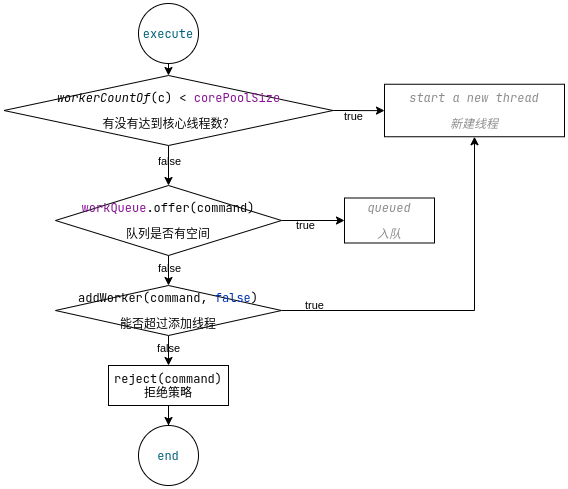
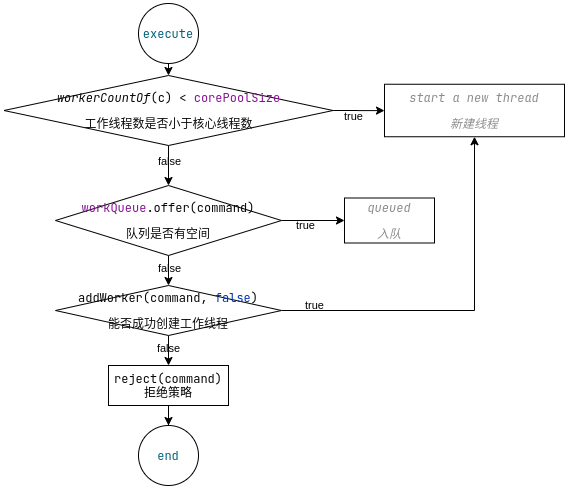
Site updated: 2020-08-23 21:08:49

Changed region(s): [[0.1496, 0.2147, 0.4489, 0.2761], [0.1796, 0.6442, 0.419, 0.6748]]

diff --git a/index.html b/index.html
@@ -246,7 +246,7 @@
       <header class="post-header">
         <h2 class="post-title" itemprop="name headline">
           
-            <a href="/2020/08/22/Java-%E7%BA%BF%E7%A8%8B%E6%B1%A0/" class="post-title-link" itemprop="url">Java-先城池</a>
+            <a href="/2020/08/22/Java-%E7%BA%BF%E7%A8%8B%E6%B1%A0/" class="post-title-link" itemprop="url">Java-线程池</a>
         </h2>
 
         <div class="post-meta">
@@ -322,160 +322,14 @@
 <li>scheduleWithFixedDelay：给定延迟后开始执行，每次任务执行完成后，经过执行周期时间，再执行下次任务。</li>
 </ul>
 </blockquote>
-<h1 id="代码"><a class="markdownIt-Anchor" href="#代码"></a> 代码</h1>
-<h2 id="公共测试代码"><a class="markdownIt-Anchor" href="#公共测试代码"></a> 公共测试代码</h2>
-<figure class="highlight java"><table><tr><td class="gutter"><pre><span class="line">1</span><br><span class="line">2</span><br><span class="line">3</span><br><span class="line">4</span><br><span class="line">5</span><br><span class="line">6</span><br><span class="line">7</span><br><span class="line">8</span><br><span class="line">9</span><br><span class="line">10</span><br><span class="line">11</span><br><span class="line">12</span><br><span class="line">13</span><br><span class="line">14</span><br><span class="line">15</span><br><span class="line">16</span><br><span class="line">17</span><br><span class="line">18</span><br><span class="line">19</span><br><span class="line">20</span><br><span class="line">21</span><br></pre></td><td class="code"><pre><span class="line"><span class="function"><span class="keyword">public</span> <span class="keyword">void</span> <span class="title">commonTestCase</span><span class="params">(ThreadPoolExecutor threadPoolExecutor)</span> <span class="keyword">throws</span> InterruptedException </span>&#123;</span><br><span class="line">    <span class="keyword">for</span> (<span class="keyword">int</span> i = <span class="number">0</span>; i &lt; <span class="number">8</span>; i++) &#123;</span><br><span class="line">        <span class="keyword">final</span> <span class="keyword">int</span> n = i;</span><br><span class="line">        threadPoolExecutor.submit(() -&gt; &#123;</span><br><span class="line">            <span class="keyword">try</span> &#123;</span><br><span class="line">                <span class="comment">// 模拟任务，时长2秒钟</span></span><br><span class="line">                Thread.sleep(<span class="number">2000L</span>);</span><br><span class="line">            &#125; <span class="keyword">catch</span> (InterruptedException e) &#123;</span><br><span class="line">                e.printStackTrace();</span><br><span class="line">            &#125;</span><br><span class="line">        &#125;);</span><br><span class="line">    &#125;</span><br><span class="line">    <span class="comment">// 在任务执行过程中，查看线程池状态</span></span><br><span class="line">    Thread.sleep(<span class="number">100L</span>);</span><br><span class="line">    System.out.println(<span class="string">"执行中线程池线程数量："</span> + threadPoolExecutor.getPoolSize());</span><br><span class="line">    System.out.println(<span class="string">"执行中等待队列任务数："</span> + threadPoolExecutor.getQueue().size());</span><br><span class="line">    <span class="comment">// 任务执行完之后，查看线程池状态</span></span><br><span class="line">    Thread.sleep(<span class="number">10000L</span>);</span><br><span class="line">    System.out.println(<span class="string">"执行完线程池线程数量："</span> + threadPoolExecutor.getPoolSize());</span><br><span class="line">    System.out.println(<span class="string">"执行完等待队列任务数："</span> + threadPoolExecutor.getQueue().size());</span><br><span class="line">&#125;</span><br></pre></td></tr></table></figure>
-<h2 id="一般场景"><a class="markdownIt-Anchor" href="#一般场景"></a> 一般场景</h2>
-<ul>
-<li>代码<figure class="highlight java"><table><tr><td class="gutter"><pre><span class="line">1</span><br><span class="line">2</span><br><span class="line">3</span><br><span class="line">4</span><br><span class="line">5</span><br><span class="line">6</span><br><span class="line">7</span><br><span class="line">8</span><br><span class="line">9</span><br><span class="line">10</span><br><span class="line">11</span><br><span class="line">12</span><br></pre></td><td class="code"><pre><span class="line"><span class="comment">/**</span></span><br><span class="line"><span class="comment"> * 线程池：</span></span><br><span class="line"><span class="comment"> *   核心线程数量为 3个，最多线程数量为 5个；</span></span><br><span class="line"><span class="comment"> *   超过核心数量的线程的存活时间为 5秒；</span></span><br><span class="line"><span class="comment"> *   线程等待队列为无界队列</span></span><br><span class="line"><span class="comment"> */</span></span><br><span class="line"><span class="function"><span class="keyword">public</span> <span class="keyword">void</span> <span class="title">normalThreadPool</span><span class="params">()</span> <span class="keyword">throws</span> InterruptedException </span>&#123;</span><br><span class="line">    ThreadPoolExecutor threadPoolExecutor = <span class="keyword">new</span> ThreadPoolExecutor(<span class="number">3</span>, <span class="number">5</span>,</span><br><span class="line">            <span class="number">5</span>, TimeUnit.SECONDS,</span><br><span class="line">            <span class="keyword">new</span> LinkedBlockingQueue&lt;&gt;());</span><br><span class="line">    commonTestCase(threadPoolExecutor);</span><br><span class="line">&#125;</span><br></pre></td></tr></table></figure>
-</li>
-<li>执行结果
-<blockquote>
-<p>执行中线程池线程数量：3<br />
-执行中等待队列任务数：5<br />
-执行完线程池线程数量：3<br />
-执行完等待队列任务数：0</p>
-</blockquote>
-</li>
-<li>解释
-<ol>
-<li>为什么在执行过程中，线程数量没有增加到最大数量，而是选择将超出核心线程数的任务放到任务队列里？
-<blockquote>
-<p>线程池创建新线程的规则：</p>
-<ol>
-<li>如果正在运行的线程数小于<code>corePoolSize</code>时，即使其他工作线程处于空闲状态，也会创建一个新线程来处理请求；</li>
-<li>如果运行的线程数大于<code>corePoolSize</code>但小于<code>maximumPoolSize</code>时，则仅在队列已满时才创建新线程；</li>
-<li>答案：由于创建线程池时指定的线程池为无界队列，所以永远不会创建新线程，而是一直复用3个核心线程来处理任务。</li>
-</ol>
-</blockquote>
-</li>
-</ol>
-</li>
-</ul>
-<h2 id="一般场景拒绝策略"><a class="markdownIt-Anchor" href="#一般场景拒绝策略"></a> 一般场景+拒绝策略</h2>
-<ul>
-<li>代码<figure class="highlight java"><table><tr><td class="gutter"><pre><span class="line">1</span><br><span class="line">2</span><br><span class="line">3</span><br><span class="line">4</span><br><span class="line">5</span><br><span class="line">6</span><br><span class="line">7</span><br><span class="line">8</span><br><span class="line">9</span><br><span class="line">10</span><br><span class="line">11</span><br><span class="line">12</span><br><span class="line">13</span><br><span class="line">14</span><br><span class="line">15</span><br><span class="line">16</span><br><span class="line">17</span><br></pre></td><td class="code"><pre><span class="line"><span class="comment">/**</span></span><br><span class="line"><span class="comment"> * 线程池：</span></span><br><span class="line"><span class="comment"> *   核心线程数量为 3个，最多线程数量为 5个；</span></span><br><span class="line"><span class="comment"> *   超过核心数量的线程的存活时间为 5秒；</span></span><br><span class="line"><span class="comment"> *   线程等待队列为容量大小为 3的队列</span></span><br><span class="line"><span class="comment"> *   指定拒绝策略</span></span><br><span class="line"><span class="comment"> */</span></span><br><span class="line"><span class="function"><span class="keyword">public</span> <span class="keyword">void</span> <span class="title">normalThreadPoolRejectHandler</span><span class="params">()</span> <span class="keyword">throws</span> InterruptedException </span>&#123;</span><br><span class="line">    ThreadPoolExecutor threadPoolExecutor = <span class="keyword">new</span> ThreadPoolExecutor(<span class="number">3</span>, <span class="number">5</span>, <span class="number">5</span>, TimeUnit.SECONDS, <span class="keyword">new</span> LinkedBlockingQueue&lt;&gt;(<span class="number">2</span>),</span><br><span class="line">            <span class="keyword">new</span> RejectedExecutionHandler() &#123;</span><br><span class="line">                <span class="meta">@Override</span></span><br><span class="line">                <span class="function"><span class="keyword">public</span> <span class="keyword">void</span> <span class="title">rejectedExecution</span><span class="params">(Runnable r, ThreadPoolExecutor executor)</span> </span>&#123;</span><br><span class="line">                    System.out.println(<span class="string">"拒绝任务"</span>);</span><br><span class="line">                &#125;</span><br><span class="line">            &#125;);</span><br><span class="line">    commonTestCase(threadPoolExecutor);</span><br><span class="line">&#125;</span><br></pre></td></tr></table></figure>
-</li>
-<li>执行结果
-<blockquote>
-<p>拒绝任务<br />
-执行中线程池线程数量：5<br />
-执行中等待队列任务数：2<br />
-执行完线程池线程数量：3<br />
-执行完等待队列任务数：0</p>
-</blockquote>
-</li>
-<li>解释
-<ol>
-<li>前三个任务被核心线程执行时，4、5个任务被加到任务队列中，此时队列已满；后来的6、7个任务新建线程执行，此时线程池和队列都已经满了；第8个任务被拒绝添加，执行决绝策略。</li>
-<li>当8个任务已经处理完成，存货时间为5秒的2个非核心线程销毁，此时线程池线程数为3，队列任务数为0。</li>
-<li>执行任务流程(具体描述见<code>ThreadPoolExecutor#execute</code>注释)： <img src="/2020/08/22/Java-%E7%BA%BF%E7%A8%8B%E6%B1%A0/execute.png" class="" title="任务执行流程">
-</li>
-</ol>
-</li>
-</ul>
-<h3 id="通过executors创建固定大小线程池newfixedthreadpool"><a class="markdownIt-Anchor" href="#通过executors创建固定大小线程池newfixedthreadpool"></a> 通过Executors创建固定大小线程池:newFixedThreadPool</h3>
-<ul>
-<li>代码<figure class="highlight java"><table><tr><td class="gutter"><pre><span class="line">1</span><br><span class="line">2</span><br><span class="line">3</span><br><span class="line">4</span><br><span class="line">5</span><br><span class="line">6</span><br><span class="line">7</span><br><span class="line">8</span><br><span class="line">9</span><br></pre></td><td class="code"><pre><span class="line"><span class="comment">/**</span></span><br><span class="line"><span class="comment"> * 等价与：</span></span><br><span class="line"><span class="comment"> *    new ThreadPoolExecutor(5, 5, 0L, TimeUnit.MILLISECONDS, new LinkedBlockingQueue&lt;Runnable&gt;());</span></span><br><span class="line"><span class="comment"> * 无界队列，核心线程数和最大线程数相等(固定为5个)</span></span><br><span class="line"><span class="comment"> */</span></span><br><span class="line"><span class="function"><span class="keyword">public</span> <span class="keyword">void</span> <span class="title">executorsNewFixed</span><span class="params">()</span> <span class="keyword">throws</span> InterruptedException </span>&#123;</span><br><span class="line">    ThreadPoolExecutor threadPoolExecutor = (ThreadPoolExecutor) Executors.newFixedThreadPool(<span class="number">5</span>);</span><br><span class="line">    commonTestCase(threadPoolExecutor);</span><br><span class="line">&#125;</span><br></pre></td></tr></table></figure>
-</li>
-<li>执行结果
-<blockquote>
-<p>执行中线程池线程数量：5<br />
-执行中等待队列任务数：3<br />
-执行完线程池线程数量：5<br />
-执行完等待队列任务数：0</p>
-</blockquote>
-</li>
-<li>解释<br />
-等价于<a href="#%E4%B8%80%E8%88%AC%E5%9C%BA%E6%99%AF">第一种场景</a>，唯一的区别是：该实现核心线程数等于最大线程数，不会有临时线程创建所以存活时间参数就用不到了；<br />
-执行过程：前五个任务会直接用空闲线程执行，其他任务放到队列中等待其他任务执行完成。</li>
-</ul>
-<h3 id="通过executors创建缓存线程池newcachedthreadpool"><a class="markdownIt-Anchor" href="#通过executors创建缓存线程池newcachedthreadpool"></a> 通过Executors创建缓存线程池:newCachedThreadPool</h3>
-<ul>
-<li>代码<br />
-首先，在公共测试模块中临时添加段代码：<figure class="highlight java"><table><tr><td class="gutter"><pre><span class="line">1</span><br><span class="line">2</span><br><span class="line">3</span><br><span class="line">4</span><br></pre></td><td class="code"><pre><span class="line"><span class="comment">// 等待缓存线程存活时间</span></span><br><span class="line">Thread.sleep(<span class="number">60000L</span>);</span><br><span class="line">System.out.println(<span class="string">"超过缓存时间线程池线程数量："</span> + threadPoolExecutor.getPoolSize());</span><br><span class="line">System.out.println(<span class="string">"超过缓存时间等待队列任务数："</span> + threadPoolExecutor.getQueue().size());</span><br></pre></td></tr></table></figure>
-<figure class="highlight java"><table><tr><td class="gutter"><pre><span class="line">1</span><br><span class="line">2</span><br><span class="line">3</span><br><span class="line">4</span><br><span class="line">5</span><br><span class="line">6</span><br><span class="line">7</span><br><span class="line">8</span><br><span class="line">9</span><br><span class="line">10</span><br></pre></td><td class="code"><pre><span class="line"><span class="comment">/**</span></span><br><span class="line"><span class="comment"> * 等价于:</span></span><br><span class="line"><span class="comment"> *     new ThreadPoolExecutor(0, Integer.MAX_VALUE, 60L, TimeUnit.SECONDS, new SynchronousQueue&lt;Runnable&gt;());</span></span><br><span class="line"><span class="comment"> * 核心线程数为0,最大线程数为Integer最大值,线程存活时间为60秒</span></span><br><span class="line"><span class="comment"> * SynchronousQueue(同步队列)：在向线程池的任务队列中提交任务时，如果没有空闲线程，则添加失败，此时线程池新建线程，否则复用空闲线程。</span></span><br><span class="line"><span class="comment"> */</span></span><br><span class="line"><span class="function"><span class="keyword">public</span> <span class="keyword">void</span> <span class="title">executorsNewCached</span><span class="params">()</span> <span class="keyword">throws</span> InterruptedException </span>&#123;     </span><br><span class="line">    ThreadPoolExecutor threadPoolExecutor = (ThreadPoolExecutor) Executors.newCachedThreadPool();</span><br><span class="line">    commonTestCase(threadPoolExecutor);</span><br><span class="line">&#125;</span><br></pre></td></tr></table></figure>
-</li>
-<li>执行结果
-<blockquote>
-<p>执行中线程池线程数量：8<br />
-执行中等待队列任务数：0<br />
-执行完线程池线程数量：8<br />
-执行完等待队列任务数：0<br />
-超过缓存时间线程池线程数量：0<br />
-超过缓存时间等待队列任务数：0</p>
-</blockquote>
-</li>
-<li>解释：
-<ol>
-<li>在提交任务时，由于所有的任务都在执行中，对每一个新任务都新建线程；执行结束后，线程有60秒的存活时间，在这期间内没有新的任务提交，之后所有线程销毁。</li>
-</ol>
-</li>
-</ul>
-<h3 id="通过executors创建单线程线程池newsinglethreadexecutor"><a class="markdownIt-Anchor" href="#通过executors创建单线程线程池newsinglethreadexecutor"></a> 通过Executors创建单线程线程池:newSingleThreadExecutor</h3>
-<ul>
-<li>解释
-<ol>
-<li><code>Executors</code>内相关代码：<figure class="highlight java"><table><tr><td class="gutter"><pre><span class="line">1</span><br><span class="line">2</span><br><span class="line">3</span><br><span class="line">4</span><br><span class="line">5</span><br><span class="line">6</span><br></pre></td><td class="code"><pre><span class="line"><span class="function"><span class="keyword">public</span> <span class="keyword">static</span> ExecutorService <span class="title">newSingleThreadExecutor</span><span class="params">()</span> </span>&#123;</span><br><span class="line">    <span class="keyword">return</span> <span class="keyword">new</span> FinalizableDelegatedExecutorService</span><br><span class="line">        (<span class="keyword">new</span> ThreadPoolExecutor(<span class="number">1</span>, <span class="number">1</span>,</span><br><span class="line">                                <span class="number">0L</span>, TimeUnit.MILLISECONDS,</span><br><span class="line">                                <span class="keyword">new</span> LinkedBlockingQueue&lt;Runnable&gt;()));</span><br><span class="line">&#125;</span><br></pre></td></tr></table></figure>
-</li>
-<li>创建一个线程池，该线程池在无界队列上使用单个线程执行任务，保证任务按顺序执行。</li>
-</ol>
-</li>
-</ul>
-<h3 id="通过executors创建定时任务线程池newscheduledthreadpool"><a class="markdownIt-Anchor" href="#通过executors创建定时任务线程池newscheduledthreadpool"></a> 通过Executors创建定时任务线程池:newScheduledThreadPool</h3>
-<p>定时任务线程池有两种用法，一种是单次执行，一种是周期执行，周期执行又有两种方式。</p>
-<h4 id="单次执行"><a class="markdownIt-Anchor" href="#单次执行"></a> 单次执行</h4>
-<ul>
-<li>代码<figure class="highlight java"><table><tr><td class="gutter"><pre><span class="line">1</span><br><span class="line">2</span><br><span class="line">3</span><br><span class="line">4</span><br><span class="line">5</span><br><span class="line">6</span><br><span class="line">7</span><br><span class="line">8</span><br><span class="line">9</span><br><span class="line">10</span><br></pre></td><td class="code"><pre><span class="line"><span class="comment">/**</span></span><br><span class="line"><span class="comment"> * 定义定时任务线程池，1秒后执行任务，进执行一次。DelayedWorkQueue实现。</span></span><br><span class="line"><span class="comment"> */</span></span><br><span class="line"><span class="function"><span class="keyword">public</span> <span class="keyword">void</span> <span class="title">scheduledThreadPoolOnce</span><span class="params">()</span> </span>&#123;</span><br><span class="line">    ScheduledThreadPoolExecutor scheduledThreadPoolExecutor = (ScheduledThreadPoolExecutor) Executors.newScheduledThreadPool(<span class="number">1</span>);</span><br><span class="line">    scheduledThreadPoolExecutor.schedule(() -&gt; &#123;</span><br><span class="line">        System.out.println(<span class="string">"执行定时任务："</span> + System.currentTimeMillis());</span><br><span class="line">    &#125;, <span class="number">1000L</span>, TimeUnit.MILLISECONDS);</span><br><span class="line">    System.out.println(<span class="string">"提交定时任务："</span> + System.currentTimeMillis());</span><br><span class="line">&#125;</span><br></pre></td></tr></table></figure>
-</li>
-<li>执行结果
-<blockquote>
-<p>提交定时任务：1598088184064<br />
-执行定时任务：1598088185065</p>
-</blockquote>
-</li>
-</ul>
-<h4 id="周期执行atfixedrate"><a class="markdownIt-Anchor" href="#周期执行atfixedrate"></a> 周期执行–AtFixedRate</h4>
-<ul>
-<li>代码<figure class="highlight java"><table><tr><td class="gutter"><pre><span class="line">1</span><br><span class="line">2</span><br><span class="line">3</span><br><span class="line">4</span><br><span class="line">5</span><br><span class="line">6</span><br><span class="line">7</span><br><span class="line">8</span><br><span class="line">9</span><br><span class="line">10</span><br><span class="line">11</span><br><span class="line">12</span><br><span class="line">13</span><br><span class="line">14</span><br><span class="line">15</span><br><span class="line">16</span><br><span class="line">17</span><br></pre></td><td class="code"><pre><span class="line"><span class="comment">/**</span></span><br><span class="line"><span class="comment"> * 定义定时任务线程池，1秒后执行任务,每隔三秒执行一次，任务执行时间为5秒。</span></span><br><span class="line"><span class="comment"> * 说明：任务执行时间大于循环周期，则该方式，在前次任务执行完成后立即执行。</span></span><br><span class="line"><span class="comment"> */</span></span><br><span class="line"><span class="function"><span class="keyword">public</span> <span class="keyword">void</span> <span class="title">scheduledThreadPoolAtFixedRate</span><span class="params">()</span> </span>&#123;</span><br><span class="line">    ScheduledThreadPoolExecutor scheduledThreadPoolExecutor = (ScheduledThreadPoolExecutor) Executors.newScheduledThreadPool(<span class="number">1</span>);</span><br><span class="line">    scheduledThreadPoolExecutor.scheduleAtFixedRate(() -&gt; &#123;</span><br><span class="line">        System.out.println(<span class="string">"执行定时任务开始："</span> + System.currentTimeMillis());</span><br><span class="line">            <span class="keyword">try</span> &#123;</span><br><span class="line">                Thread.sleep(<span class="number">5000L</span>);</span><br><span class="line">            &#125; <span class="keyword">catch</span> (InterruptedException e) &#123;</span><br><span class="line">                e.printStackTrace();</span><br><span class="line">            &#125;</span><br><span class="line">            System.out.println(<span class="string">"执行定时任务结束："</span> + System.currentTimeMillis());</span><br><span class="line">        &#125;, <span class="number">1000L</span>, <span class="number">3000L</span>, TimeUnit.MILLISECONDS);</span><br><span class="line">    System.out.println(<span class="string">"完成提交定时任务："</span> + System.currentTimeMillis());</span><br><span class="line">&#125;</span><br></pre></td></tr></table></figure>
-</li>
-<li>执行结果
-<blockquote>
-<p>完成提交定时任务：1598088589385<br />
-执行定时任务开始：1598088590385<br />
-执行定时任务结束：1598088595385<br />
-执行定时任务开始：1598088595385<br />
-执行定时任务结束：1598088600385<br />
-执行定时任务开始：1598088600386<br />
-…</p>
-</blockquote>
-</li>
-<li>解释
-<ol>
-<li>提交完成后1秒(<code>initialDelay</code>)，第一次任务开始执行，5秒后执行完成。第一次任务执行完成后，由于任务执行时间超过循环周期，所以第二次任务立刻执行。…</li>
-</ol>
-</li>
-</ul>
-<h4 id="周期执行withfixeddelay"><a class="markdownIt-Anchor" href="#周期执行withfixeddelay"></a> 周期执行–WithFixedDelay</h4>
-<ul>
-<li>代码<figure class="highlight java"><table><tr><td class="gutter"><pre><span class="line">1</span><br><span class="line">2</span><br><span class="line">3</span><br><span class="line">4</span><br><span class="line">5</span><br><span class="line">6</span><br><span class="line">7</span><br><span class="line">8</span><br><span class="line">9</span><br><span class="line">10</span><br><span class="line">11</span><br><span class="line">12</span><br><span class="line">13</span><br><span class="line">14</span><br><span class="line">15</span><br><span class="line">16</span><br><span class="line">17</span><br></pre></td><td class="code"><pre><span class="line"><span class="comment">/**</span></span><br><span class="line"><span class="comment"> * 定义定时任务线程池，1秒后执行任务,每隔三秒执行一次，任务执行时间为5秒。</span></span><br><span class="line"><span class="comment"> * 说明：该方式是在前次任务执行结束后开始计算循环周期时间，即前次任务执行结束后，再经过3秒执行下次任务。</span></span><br><span class="line"><span class="comment"> */</span></span><br><span class="line"><span class="function"><span class="keyword">public</span> <span class="keyword">void</span> <span class="title">scheduledThreadPoolWithFixedDelay</span><span class="params">()</span> </span>&#123;</span><br><span class="line">    ScheduledThreadPoolExecutor scheduledThreadPoolExecutor = (ScheduledThreadPoolExecutor) Executors.newScheduledThreadPool(<span class="number">1</span>);</span><br><span class="line">    scheduledThreadPoolExecutor.scheduleWithFixedDelay(() -&gt; &#123;</span><br><span class="line">        System.out.println(<span class="string">"执行定时任务开始："</span> + System.currentTimeMillis());</span><br><span class="line">            <span class="keyword">try</span> &#123;</span><br><span class="line">                Thread.sleep(<span class="number">5000L</span>);</span><br><span class="line">            &#125; <span class="keyword">catch</span> (InterruptedException e) &#123;</span><br><span class="line">                e.printStackTrace();</span><br><span class="line">            &#125;</span><br><span class="line">            System.out.println(<span class="string">"执行定时任务结束："</span> + System.currentTimeMillis());</span><br><span class="line">        &#125;, <span class="number">1000L</span>, <span class="number">3000L</span>, TimeUnit.MILLISECONDS);</span><br><span class="line">    System.out.println(<span class="string">"完成提交定时任务："</span> + System.currentTimeMillis());</span><br><span class="line">&#125;</span><br></pre></td></tr></table></figure>
-</li>
-<li>执行结果
-<blockquote>
-<p>完成提交定时任务：1598088962132<br />
-执行定时任务开始：1598088963132<br />
-执行定时任务结束：1598088968132<br />
-执行定时任务开始：1598088971132<br />
-执行定时任务结束：1598088976133</p>
-</blockquote>
-</li>
-<li>解释
-<ol>
-<li>任务提交后1秒(<code>initialDelay</code>)，开始执行第一次任务，5秒后执行完成。然后又等了3秒，执行下次任务。…</li>
-</ol>
-</li>
-</ul>
-
+          <!--noindex-->
+            <div class="post-button">
+              <a class="btn" href="/2020/08/22/Java-%E7%BA%BF%E7%A8%8B%E6%B1%A0/#more" rel="contents">
+                Read more &raquo;
+              </a>
+            </div>
+          <!--/noindex-->
+        
       
     </div>
 

diff --git a/2020/08/22/Java-线程池/index.html b/2020/08/22/Java-线程池/index.html
@@ -27,7 +27,7 @@
 
   <meta name="description" content="API接口及实现类     类型 名称 描述     interface Executor 最上层的接口，定义了执行任务的方法execute(Runnable)   interface ExecutorService 扩展Executor接口，添加了Callable支持，定义了任务提交方法submit及关闭方法shutdown   interface ScheduledExecutorServi">
 <meta property="og:type" content="article">
-<meta property="og:title" content="Java-先城池">
+<meta property="og:title" content="Java-线程池">
 <meta property="og:url" content="http://yoursite.com/2020/08/22/Java-%E7%BA%BF%E7%A8%8B%E6%B1%A0/index.html">
 <meta property="og:site_name" content="Boring&#39;s Blog">
 <meta property="og:description" content="API接口及实现类     类型 名称 描述     interface Executor 最上层的接口，定义了执行任务的方法execute(Runnable)   interface ExecutorService 扩展Executor接口，添加了Callable支持，定义了任务提交方法submit及关闭方法shutdown   interface ScheduledExecutorServi">
@@ -35,7 +35,7 @@
 <meta property="og:image" content="http://yoursite.com/2020/08/22/Java-%E7%BA%BF%E7%A8%8B%E6%B1%A0/ThreadPoolExecutor.png">
 <meta property="og:image" content="http://yoursite.com/2020/08/22/Java-%E7%BA%BF%E7%A8%8B%E6%B1%A0/execute.png">
 <meta property="article:published_time" content="2020-08-22T05:12:25.000Z">
-<meta property="article:modified_time" content="2020-08-22T09:46:26.054Z">
+<meta property="article:modified_time" content="2020-08-23T11:57:52.371Z">
 <meta property="article:author" content="张宝运">
 <meta property="article:tag" content="Java">
 <meta name="twitter:card" content="summary">
@@ -54,7 +54,7 @@
   };
 </script>
 
-  <title>Java-先城池 | Boring's Blog</title>
+  <title>Java-线程池 | Boring's Blog</title>
   
 
 
@@ -255,7 +255,7 @@
     
       <header class="post-header">
         <h1 class="post-title" itemprop="name headline">
-          Java-先城池
+          Java-线程池
         </h1>
 
         <div class="post-meta">
@@ -331,6 +331,7 @@
 <li>scheduleWithFixedDelay：给定延迟后开始执行，每次任务执行完成后，经过执行周期时间，再执行下次任务。</li>
 </ul>
 </blockquote>
+<a id="more"></a>
 <h1 id="代码"><a class="markdownIt-Anchor" href="#代码"></a> 代码</h1>
 <h2 id="公共测试代码"><a class="markdownIt-Anchor" href="#公共测试代码"></a> 公共测试代码</h2>
 <figure class="highlight java"><table><tr><td class="gutter"><pre><span class="line">1</span><br><span class="line">2</span><br><span class="line">3</span><br><span class="line">4</span><br><span class="line">5</span><br><span class="line">6</span><br><span class="line">7</span><br><span class="line">8</span><br><span class="line">9</span><br><span class="line">10</span><br><span class="line">11</span><br><span class="line">12</span><br><span class="line">13</span><br><span class="line">14</span><br><span class="line">15</span><br><span class="line">16</span><br><span class="line">17</span><br><span class="line">18</span><br><span class="line">19</span><br><span class="line">20</span><br><span class="line">21</span><br></pre></td><td class="code"><pre><span class="line"><span class="function"><span class="keyword">public</span> <span class="keyword">void</span> <span class="title">commonTestCase</span><span class="params">(ThreadPoolExecutor threadPoolExecutor)</span> <span class="keyword">throws</span> InterruptedException </span>&#123;</span><br><span class="line">    <span class="keyword">for</span> (<span class="keyword">int</span> i = <span class="number">0</span>; i &lt; <span class="number">8</span>; i++) &#123;</span><br><span class="line">        <span class="keyword">final</span> <span class="keyword">int</span> n = i;</span><br><span class="line">        threadPoolExecutor.submit(() -&gt; &#123;</span><br><span class="line">            <span class="keyword">try</span> &#123;</span><br><span class="line">                <span class="comment">// 模拟任务，时长2秒钟</span></span><br><span class="line">                Thread.sleep(<span class="number">2000L</span>);</span><br><span class="line">            &#125; <span class="keyword">catch</span> (InterruptedException e) &#123;</span><br><span class="line">                e.printStackTrace();</span><br><span class="line">            &#125;</span><br><span class="line">        &#125;);</span><br><span class="line">    &#125;</span><br><span class="line">    <span class="comment">// 在任务执行过程中，查看线程池状态</span></span><br><span class="line">    Thread.sleep(<span class="number">100L</span>);</span><br><span class="line">    System.out.println(<span class="string">"执行中线程池线程数量："</span> + threadPoolExecutor.getPoolSize());</span><br><span class="line">    System.out.println(<span class="string">"执行中等待队列任务数："</span> + threadPoolExecutor.getQueue().size());</span><br><span class="line">    <span class="comment">// 任务执行完之后，查看线程池状态</span></span><br><span class="line">    Thread.sleep(<span class="number">10000L</span>);</span><br><span class="line">    System.out.println(<span class="string">"执行完线程池线程数量："</span> + threadPoolExecutor.getPoolSize());</span><br><span class="line">    System.out.println(<span class="string">"执行完等待队列任务数："</span> + threadPoolExecutor.getQueue().size());</span><br><span class="line">&#125;</span><br></pre></td></tr></table></figure>

diff --git a/2020/08/14/Spring-AOP/index.html b/2020/08/14/Spring-AOP/index.html
@@ -338,8 +338,8 @@
       <i class="fa fa-chevron-left"></i> Spring循环依赖
     </a></div>
       <div class="post-nav-item">
-    <a href="/2020/08/22/Java-%E7%BA%BF%E7%A8%8B%E6%B1%A0/" rel="next" title="Java-先城池">
-      Java-先城池 <i class="fa fa-chevron-right"></i>
+    <a href="/2020/08/22/Java-%E7%BA%BF%E7%A8%8B%E6%B1%A0/" rel="next" title="Java-线程池">
+      Java-线程池 <i class="fa fa-chevron-right"></i>
     </a></div>
     </div>
       </footer>

diff --git a/archives/2020/08/index.html b/archives/2020/08/index.html
@@ -254,7 +254,7 @@
 
       <div class="post-title">
           <a class="post-title-link" href="/2020/08/22/Java-%E7%BA%BF%E7%A8%8B%E6%B1%A0/" itemprop="url">
-            <span itemprop="name">Java-先城池</span>
+            <span itemprop="name">Java-线程池</span>
           </a>
       </div>
 

diff --git a/archives/2020/index.html b/archives/2020/index.html
@@ -254,7 +254,7 @@
 
       <div class="post-title">
           <a class="post-title-link" href="/2020/08/22/Java-%E7%BA%BF%E7%A8%8B%E6%B1%A0/" itemprop="url">
-            <span itemprop="name">Java-先城池</span>
+            <span itemprop="name">Java-线程池</span>
           </a>
       </div>
 

diff --git a/archives/index.html b/archives/index.html
@@ -254,7 +254,7 @@
 
       <div class="post-title">
           <a class="post-title-link" href="/2020/08/22/Java-%E7%BA%BF%E7%A8%8B%E6%B1%A0/" itemprop="url">
-            <span itemprop="name">Java-先城池</span>
+            <span itemprop="name">Java-线程池</span>
           </a>
       </div>
 

diff --git a/tags/Java/index.html b/tags/Java/index.html
@@ -256,7 +256,7 @@
 
       <div class="post-title">
           <a class="post-title-link" href="/2020/08/22/Java-%E7%BA%BF%E7%A8%8B%E6%B1%A0/" itemprop="url">
-            <span itemprop="name">Java-先城池</span>
+            <span itemprop="name">Java-线程池</span>
           </a>
       </div>
 
